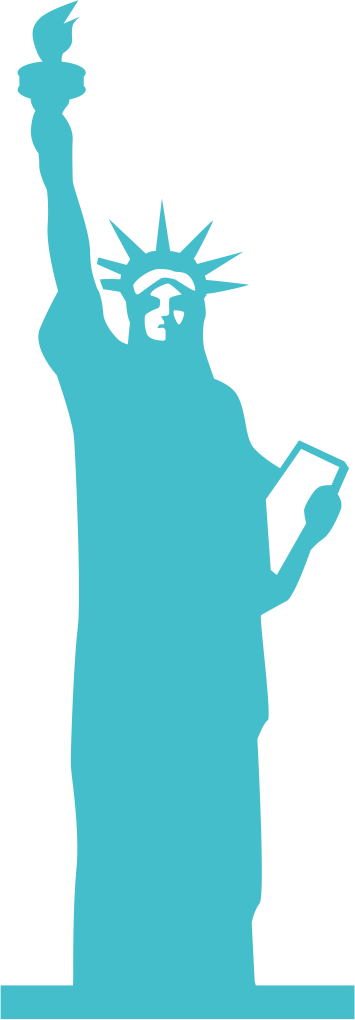
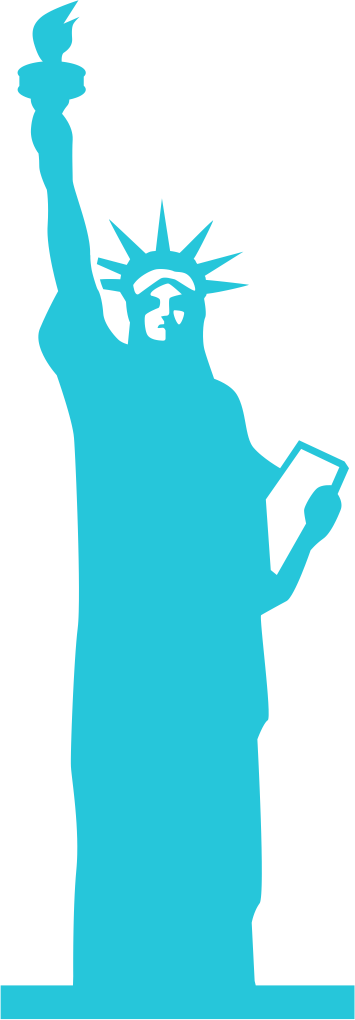
🙇 Login Terminado de maquetar

diff --git a/lib/view/loginForm.dart b/lib/view/loginForm.dart
@@ -24,8 +24,8 @@ class _LoginFormState extends State<LoginForm> {
                   child: Column(
                     children: <Widget>[
                       Text(
-                        'Iniciar Sesion',
-                        style: Theme.of(context).textTheme.display1,
+                        '¡Bienvenido!',
+                        style: Theme.of(context).textTheme.headline,
                       ),
                       GestureDetector(
                         onTap: () {
@@ -48,6 +48,7 @@ class _LoginFormState extends State<LoginForm> {
                           ),
                         ),
                       ),
+                      SizedBox(height: 8.0,),
                       GestureDetector(
                         onTap: () {
                           _scrollController.animateTo(
@@ -56,7 +57,7 @@ class _LoginFormState extends State<LoginForm> {
                             duration: const Duration(milliseconds: 300),
                           );
                         },
-                        
+
                         child: TextFormField(
                           obscureText: true,
                           validator: (value) {
@@ -84,8 +85,10 @@ class _LoginFormState extends State<LoginForm> {
                                 SnackBar(content: Text('Processing Data')));
                           }
                         },
-                        child: Text('Iniciar Sesion', style: TextStyle(color: Colors.white),),
-                      )
+                        child: Text('Inicia sesión', style: TextStyle(color: Colors.white),),
+                      ),
+                      Text('¿No tienes una cuenta? Registrate aqui.'),
+                      Text('Recuperar clave'),
                     ],
                   )),
             ),

diff --git a/lib/main.dart b/lib/main.dart
@@ -1,5 +1,6 @@
 import 'package:flutter/material.dart';
 import 'package:we_trip_out/view/login.dart';
+import 'package:dynamic_theme/dynamic_theme.dart';
 
 void main() => runApp(MyApp());
 
@@ -7,12 +8,20 @@ class MyApp extends StatelessWidget {
   // This widget is the root of your application.
   @override
   Widget build(BuildContext context) {
-    return MaterialApp(
-      title: 'Flutter Demo',
-      theme: ThemeData(
-        primarySwatch: Colors.blue,
-      ),
-      home: Login(),
+    return DynamicTheme(
+      defaultBrightness: Brightness.light,
+      data: (brightness) => new ThemeData(
+            primarySwatch: Colors.lightBlue,
+            accentColor: Colors.redAccent,
+            brightness: brightness,
+          ),
+      themedWidgetBuilder: (context, theme) {
+        return MaterialApp(
+          title: 'We Trip Out',
+          theme: theme,
+          home: Login(),
+        );
+      },
     );
   }
 }
@@ -43,7 +52,6 @@ class _MyHomePageState extends State<MyHomePage> {
       ),
       body: Center(
         child: Column(
-
           mainAxisAlignment: MainAxisAlignment.center,
           children: <Widget>[
             Text(

diff --git a/lib/view/login.dart b/lib/view/login.dart
@@ -28,7 +28,11 @@ class _LoginState extends State<Login> {
           ],
         ),
         decoration: BoxDecoration(
-          image: DecorationImage(image: AssetImage("assets/edificio01.png"))
+          image: DecorationImage(
+              image: AssetImage("assets/edificios01.png"),
+            fit: BoxFit.contain,
+            alignment: Alignment.bottomCenter
+          )
         ),
       ),
     );
